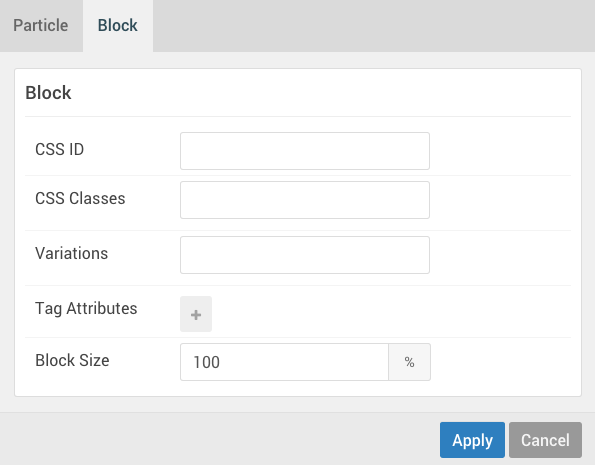
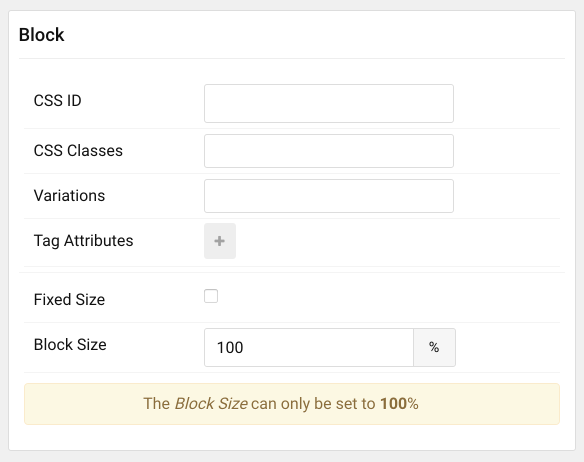
Added Block Settings Info

diff --git a/pages/01.gantry5/02.configure/05.layout-manager/docs.md b/pages/01.gantry5/02.configure/05.layout-manager/docs.md
@@ -5,7 +5,7 @@ taxonomy:
     tag: [gantry5]
 ---
 
-The **Layout Manager** in the Gantry-based theme administration interface provides several options for setting up the layout of the theme's Outlines. 
+The **Layout Manager** in the Gantry-based theme administration interface provides several options for setting up the layout of the theme's Outlines.
 
 [plugin:youtube](https://www.youtube.com/watch?v=DN_U_W7LT_c)
 
@@ -85,7 +85,7 @@ You can find out all about particle inheritance in our [Inheritance Guide](../in
 Layout
 -----
 
-The layout consists of several different sections, each with its own set of settings that enable you to customize the behavior and look of your site on the frontend. 
+The layout consists of several different sections, each with its own set of settings that enable you to customize the behavior and look of your site on the frontend.
 
 ### Sections
 
@@ -127,7 +127,7 @@ Grids have very basic options. You can **move** them using the icon on the left-
 
 Blocks are the Lego bricks of the Layout Manager. These are your individual pieces which make up the individual parts of your page. Your Logo, for example, would be a **Particle** placed in a **Block**, which sits in a **Grid** within a **Section**.
 
-Resizing Blocks in a Grid is a simple process. Simply move your mouse cursor (or tap your finger in a touchscreen) on the dividing line between blocks and drag it left or right, depending on how you want it to go. 
+Resizing Blocks in a Grid is a simple process. Simply move your mouse cursor (or tap your finger in a touchscreen) on the dividing line between blocks and drag it left or right, depending on how you want it to go.
 
 The only type of Particle that can't be resized is the **Atom** which is a non-visible piece of script, such as Google Analytics or custom CSS / JS which affects the entire page.
 
@@ -135,21 +135,24 @@ The only type of Particle that can't be resized is the **Atom** which is a non-v
 
 ![Settings](block_settings_1.png?classes=shadow,border)
 
-Each block has its own settings, which can be accessed by selecting the cog-wheel icon on the left-hand side of the Particle. These settings override the default ones set in the **Settings** admin panel, and become unique to the single block. 
+Each block has its own settings, which can be accessed by selecting the cog-wheel icon on the left-hand side of the Particle. These settings override the default ones set in the **Settings** admin panel, and become unique to the single block.
 
 These are **Particle** level settings, which exist in every type of Block. They enable you to rename the Particle as it appears on the Layout Manager, as well as to configure Particle-specific settings sourced from the Particle's **YAML** file.
 
 ![Settings](block_settings_2.png?classes=shadow,border)
 
-| Setting        | Description                                                                                                  |
-| :------        | :----------------------------------                                                                          |
-| CSS ID         | Enables you to set an ID attribute.                                                                          |
-| CSS Classes    | This is where you would enter any CSS class you would like to have apply to the block.                       |
-| Variations     | Clicking the field opens a dropdown, enabling you to select variation(s) to apply to the block.              |
-| Tag Attributes | This field is where you would add any other Tag attributes to the block.                                     |
-| Block Size     | This field gives you the ability to set a specific size (in percentage) the block will take up horizontally. |
+| Setting        | Description                                                                                                                            |
+| :------        | :----------------------------------                                                                                                    |
+| CSS ID         | Enables you to set an ID attribute.                                                                                                    |
+| CSS Classes    | This is where you would enter any CSS class you would like to have apply to the block.                                                 |
+| Variations     | Clicking the field opens a dropdown, enabling you to select variation(s) to apply to the block.                                        |
+| Tag Attributes | This field is where you would add any other Tag attributes to the block.                                                               |
+| Fixed Size     | Fixed size means that the block will always take up the designated percentage of space - even if there are no other blocks in the row. |
+| Block Size     | This field gives you the ability to set a specific size (in percentage) the block will take up horizontally.                           |
 
 The **block settings** make it easy to change the way a particular block looks and behaves, as well as gives you the ability to set a specific width percentage for the block.
+
+The **Fixed Size** option is especially useful when you are using particles that you want to take up a specific area of the page. So, for example, if you have a logo and a menu particle in a row, and you want the logo to only take up 30% of the page - even if the menu is disabled - you can do so using the **Fixed Size** option.
 
 ### Sidebar Blocks and Grids
 
